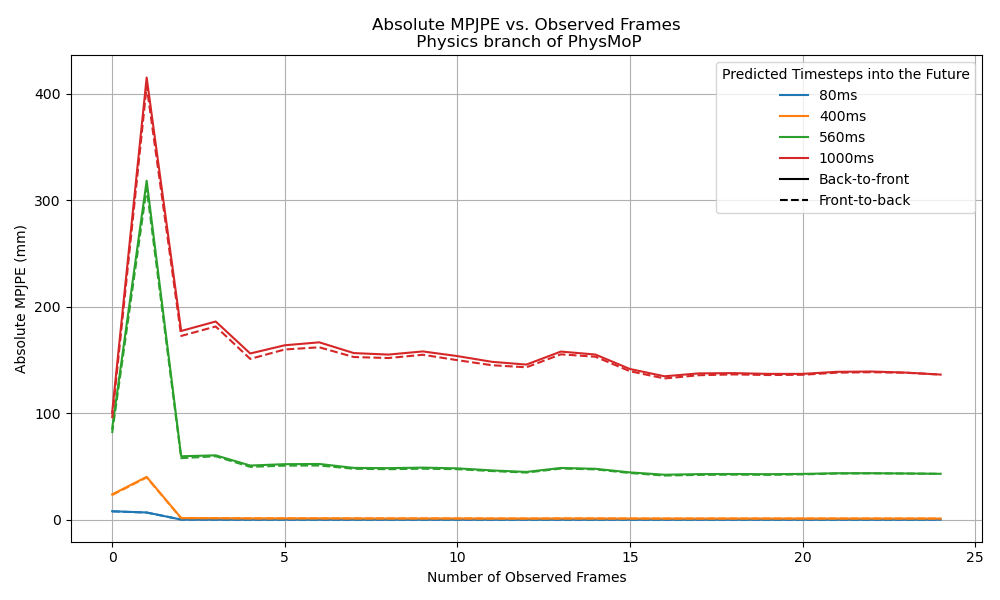
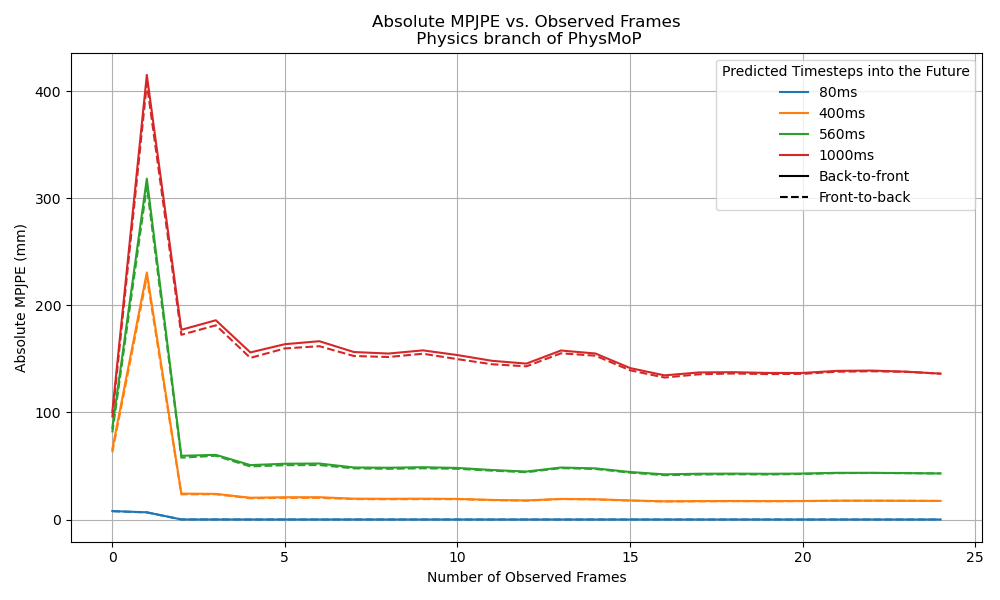
Fix incorrect physmop indices, exp A

diff --git a/exps/run/eval_ftb_btf.py b/exps/run/eval_ftb_btf.py
@@ -29,17 +29,17 @@ def parse_action_data(filename, body_part):
                     break  # End of section
     return np.array(data)
 
-back_to_front_upper = parse_action_data("physmop_physics_mpjpe_log.txt", "upper body")
-back_to_front_lower = parse_action_data("physmop_physics_mpjpe_log.txt", "lower body")
-front_to_back_upper = parse_action_data("physmop_physics_mpjpe_log_front_to_back.txt", "upper body")
-front_to_back_lower = parse_action_data("physmop_physics_mpjpe_log_front_to_back.txt", "lower body")
+back_to_front_upper = parse_action_data("performance_logs/physmop_data_mpjpe_log.txt", "upper body")
+back_to_front_lower = parse_action_data("performance_logs/physmop_data_mpjpe_log.txt", "lower body")
+front_to_back_upper = parse_action_data("performance_logs/physmop_data_mpjpe_log_front_to_back.txt", "upper body")
+front_to_back_lower = parse_action_data("performance_logs/physmop_data_mpjpe_log_front_to_back.txt", "lower body")
 # Combine upper and lower body data for back-to-front and front-to-back
 back_to_front = np.mean([back_to_front_upper, back_to_front_lower], axis=0)  # shape: (50, 8)
 front_to_back = np.mean([front_to_back_upper, front_to_back_lower], axis=0)  # shape: (50, 8)
 
 # Select the relevant columns for the 4 timesteps
-back_to_front = back_to_front[:, [0, 1, 4, 7]]  # shape: (50, 4)
-front_to_back = front_to_back[:, [0, 1, 4, 7]]  # shape: (50, 4)
+back_to_front = back_to_front[:, [0, 3, 4, 7]]  # shape: (50, 4)
+front_to_back = front_to_back[:, [0, 3, 4, 7]]  # shape: (50, 4)
 
 # Aggregate by group
 def group_average(actions, action_data):
@@ -70,7 +70,7 @@ for i, label in enumerate(["80ms", "400ms", "560ms", "1000ms"]):
     plt.plot(front_to_back[:, i], label=f"{label} Front-to-back", color=colors[i], linestyle='--')
 plt.xlabel("Number of Observed Frames")
 plt.ylabel("Absolute MPJPE (mm)")
-plt.title("Absolute MPJPE vs. Observed Frames\n Physics branch of PhysMoP")
+plt.title("Absolute MPJPE vs. Observed Frames\n Data branch of PhysMoP")
 
 # First legend
 first_line = Line2D([], [], color=colors[0], linestyle='-', linewidth=1.5, label='80ms')
